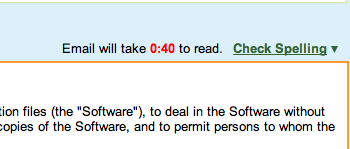
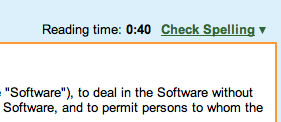
- Adjusted output to be "Reading time: m:ss" instead of "Email will take m:ss to read." as per @drdrang's suggestion. - Added user settings to control if time will be highlighted red after a given duration

diff --git a/main.js b/main.js
@@ -1,5 +1,5 @@
 /*
- * Gmail Message Length Checker
+ * Gmail Message Length Checker 1.1
  * (c) Neil Gupta 2011
  * https://github.com/neilgupta/Gmail-Message-Length-Checker/
  *
@@ -19,20 +19,30 @@ $("textarea[name='body']").live("keyup blur",function() {
 	
 	if ($time.length === 0)
 		// add our notice element to the DOM, right next to the "Check Spelling" button in Gmail
-		$time = $("<span id='metamorphium-lengthnotice'>Email will take <span id='metamorphium-time'></span> to read.</span>")
+		$time = $("<span id='metamorphium-lengthnotice'>Reading time: <span id='metamorphium-time'></span></span>")
 					.prependTo($container).find("span#metamorphium-time");
 
 	// update text
 	$time.text(min+":"+sec);
 
-	// show red warning if email will take more than 30 seconds to read
-	if (min > 0 || (wc % 250)/250 > 0.5)
+	// show red warning if email will take more than maxSeconds to read
+	var maxTime = settings.maxSeconds / 60;
+	if (settings.doWarning && min >= Math.floor(maxTime) && (wc % 250)/250 > (maxTime % 1))
 		$time.addClass("metamorphium-warning");
 	else
 		$time.removeClass("metamorphium-warning");
 });
 
 var pad = function (val, pad, size) { while (val.length < size) val = pad + val; return val; };
+
+// convoluted method for getting Safari settings
+var settings;
+safari.self.tab.dispatchMessage("settings"); // ask for value
+safari.self.addEventListener("message", getMessage, false); // wait for reply
+function getMessage(event) {
+    if (event.name === "settingsAre")
+		settings = event.message;
+}
 
 // Commented out because I could not figure out how to prevent Gmail from sending the email 
 // after send button had been pushed.

diff --git a/proxy.html b/proxy.html
@@ -1,0 +1,21 @@
+<!doctype html>
+<html lang="en">
+<head>
+  <script type="text/javascript">
+	safari.application.addEventListener("message",respondToMessage,false);
+	function respondToMessage(event) {
+		if (event.name === "settings")
+			event.target.page.dispatchMessage("settingsAre",
+				{doWarning: safari.extension.settings.doWarning,
+				 maxSeconds: safari.extension.settings.maxSeconds});
+	}
+	safari.extension.settings.addEventListener("change", settingChanged, false);
+	function settingChanged(event) {
+		safari.application.activeBrowserWindow.activeTab.page.dispatchMessage("settingsAre", 
+				{doWarning: safari.extension.settings.doWarning,
+		 		maxSeconds: safari.extension.settings.maxSeconds});        
+	}
+  </script>
+</head>
+<body></body>
+</html>
